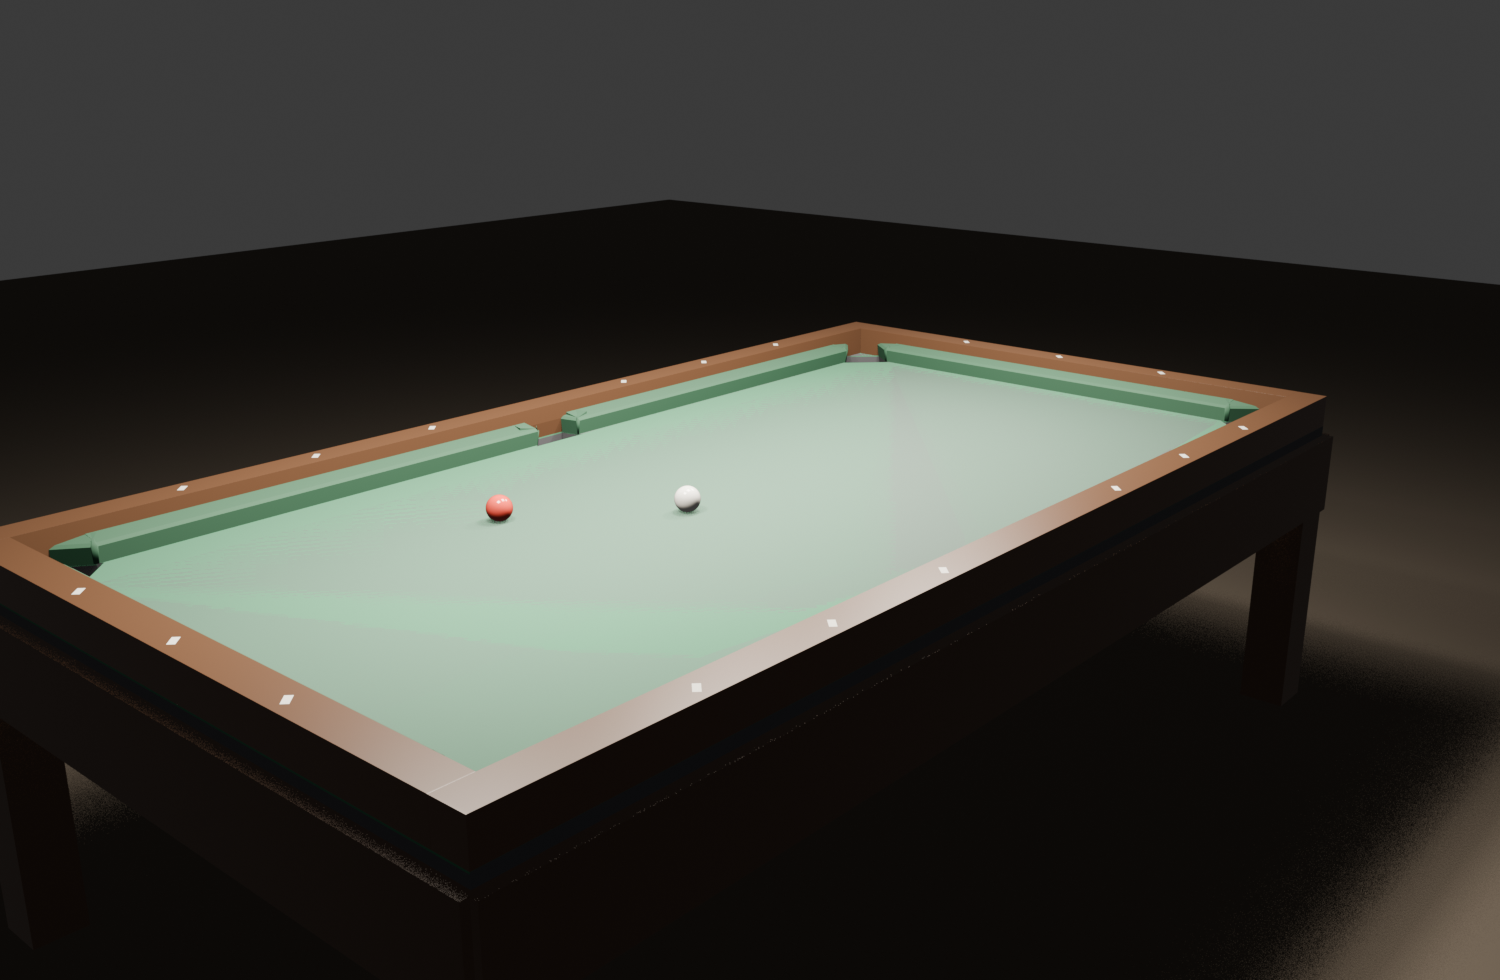
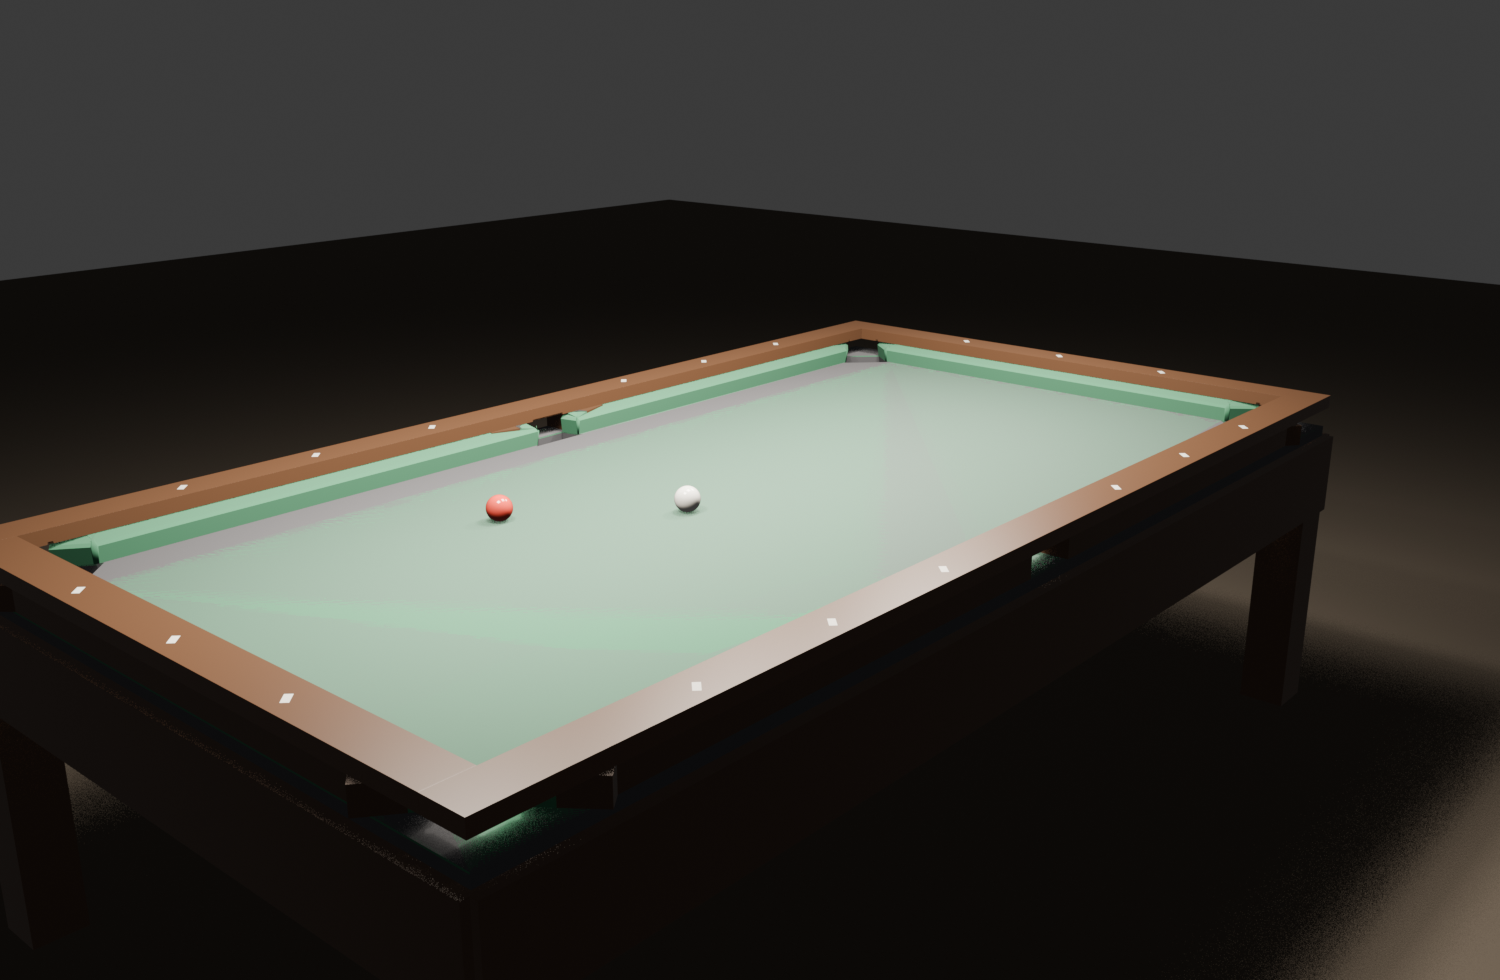
rail assembly built the way one is actually made
The cushion is no longer bare rubber in its own shade of green. WPA sec.13
stretches the bed cloth over the rubber and tucks it behind a featherstrip,
so the cushions now carry the same cloth material as the bed with a thin dark
featherstrip reveal at the tuck line. That single change is most of what made
the old rails read as modelled rather than photographed.

Behind the cushion is the wooden sub-rail (the 'rail liner' WPA sec.9 names
as taking the 142/104 degree pocket cut), swept along the same segments and
cut by the same pocket, so it is visible inside every jaw. On top of it sits
the rail cap as a separate bolted plank: it overhangs the cushion by 9mm --
the lip a ball rattles against -- and projects 7mm past the cabinet, so the
cap reads as a board rather than part of one solid mass.

Built with Claude Code (LiFi NYC)

diff --git a/table_wpa.py b/table_wpa.py
@@ -152,6 +152,37 @@ def _profile(nose_z, width):
     ]
 
 
+def _extrude_any(name, path, normals, prof, mat):
+    """Sweep an arbitrary (back-distance, height) cross-section along a path."""
+    verts, faces = [], []
+    n = len(prof)
+    for p, nrm in zip(path, normals):
+        back = Vector((-nrm.x, -nrm.y, 0.0))
+        for (dx, dz) in prof:
+            verts.append(Vector((p.x + back.x * dx, p.y + back.y * dx,
+                                 p.z + dz)))
+    for i in range(len(path) - 1):
+        a, b = i * n, (i + 1) * n
+        for k in range(n):
+            k2 = (k + 1) % n
+            faces.append([a + k, a + k2, b + k2, b + k])
+    faces.append(list(range(n - 1, -1, -1)))
+    faces.append(list(range(len(verts) - n, len(verts))))
+    return _obj(name, verts, faces, mat)
+
+
+# The wooden sub-rail the cushion is glued to (WPA sec.9 calls it the "rail
+# liner"): it sits on the slate behind the cushion and its face is what the
+# 142/104 degree pocket cuts are made through, so it is visible in every jaw.
+def _subrail_profile(nose_z, cushion_w, rail_w):
+    return [
+        (cushion_w, 0.0),
+        (cushion_w, nose_z + 0.0135),
+        (rail_w, nose_z + 0.0135),
+        (rail_w, 0.0),
+    ]
+
+
 def _extrude_profile(name, path, normals, nose_z, width, mat):
     """
     Sweep the cushion profile along `path`. `normals[i]` is the inward-facing
@@ -291,15 +322,33 @@ def build(mats, table):
         return Vector((x - W / 2.0, y - L / 2.0, BED + z))
 
     # ------------------------------------------------------------ cushions --
-    cushions = []
+    # WPA sec.13 covers the cushions in the same cloth as the bed, stretched
+    # over the rubber and tucked behind a featherstrip. Rendering them as bare
+    # rubber in a different green is the single most obvious tell that a table
+    # is modelled rather than photographed.
+    cushions, subrails = [], []
     for name, path, normals, width in _segment_paths(table):
         wpath = [bl(p.x, p.y) for p in path]
         ob = _extrude_profile("cushion_" + name, wpath, normals, NOSE,
-                              width or S.CUSHION_W, mats["cushion"])
+                              width or S.CUSHION_W, mats["cloth"])
         for p in ob.data.polygons:
             p.use_smooth = name.startswith("arc")
         cushions.append(ob)
+        if width is None:                       # straight runs only
+            sr = _extrude_any("subrail_" + name, wpath, normals,
+                              _subrail_profile(NOSE, S.CUSHION_W, S.RAIL_W),
+                              mats["wood"])
+            subrails.append(sr)
+        # the featherstrip: a thin dark reveal where the cloth is tucked in
+        fs = _extrude_any("feather_" + name, wpath, normals,
+                          [(S.CUSHION_W - 0.004, NOSE + 0.0100),
+                           (S.CUSHION_W - 0.004, NOSE + 0.0140),
+                           (S.CUSHION_W + 0.001, NOSE + 0.0140),
+                           (S.CUSHION_W + 0.001, NOSE + 0.0100)],
+                          mats["facing"])
+        cushions.append(fs)
     parts["cushions"] = cushions
+    parts["subrails"] = subrails
 
     # ------------------------------------------------------------ the bed ---
     outer_w = W + 2 * S.RAIL_W
@@ -314,18 +363,27 @@ def build(mats, table):
                  mats["wood"])
 
     # ------------------------------------------------------------- rails ----
-    rail_top = NOSE + 0.0135 + 0.030
-    cap_w = S.RAIL_W - S.CUSHION_W
+    # Rail cap: a wooden board bolted on top of the sub-rail. Its inner edge
+    # overhangs the cushion by a few millimetres (the lip a ball rattles
+    # against on a bad pot) and its outer edge projects slightly past the
+    # cabinet, so the cap reads as a separate plank and not as one solid mass.
+    cap_bot = NOSE + 0.0135
+    cap_h = 0.032
+    rail_top = cap_bot + cap_h
+    LIP = 0.009                       # overhang towards the playfield
+    OVER = 0.007                      # overhang past the cabinet
+    cap_w = (S.RAIL_W + OVER) - (S.CUSHION_W - LIP)
+    inner = S.CUSHION_W - LIP
     rails = []
     for sgn in (-1.0, 1.0):
         rails.append(_box(
-            "rail_x%+d" % sgn, (cap_w, outer_l, rail_top),
-            bl(W / 2 + sgn * (W / 2 + S.CUSHION_W + cap_w / 2), L / 2,
-               rail_top / 2), mats["rail"], bevel=0.0018))
+            "rail_x%+d" % sgn, (cap_w, outer_l + 2 * OVER, cap_h),
+            bl(W / 2 + sgn * (W / 2 + inner + cap_w / 2), L / 2,
+               cap_bot + cap_h / 2), mats["rail"], bevel=0.0022))
         rails.append(_box(
-            "rail_y%+d" % sgn, (W + 2 * S.CUSHION_W, cap_w, rail_top),
-            bl(W / 2, L / 2 + sgn * (L / 2 + S.CUSHION_W + cap_w / 2),
-               rail_top / 2), mats["rail"], bevel=0.0018))
+            "rail_y%+d" % sgn, (W + 2 * inner, cap_w, cap_h),
+            bl(W / 2, L / 2 + sgn * (L / 2 + inner + cap_w / 2),
+               cap_bot + cap_h / 2), mats["rail"], bevel=0.0022))
 
     for r in rails:                    # flatten the bevel before booleans
         bpy.context.view_layer.objects.active = r
@@ -383,7 +441,7 @@ def build(mats, table):
         bm.free()
         cutter = bpy.data.objects.new("cut_%s" % key, me)
         bpy.context.collection.objects.link(cutter)
-        for target in [cloth, slate, frame] + rails:
+        for target in [cloth, slate, frame] + rails + subrails:
             # a pocket legitimately misses the rails on the far side of the
             # table, so only an outright modifier failure is worth reporting
             if not _boolean(target, cutter):
